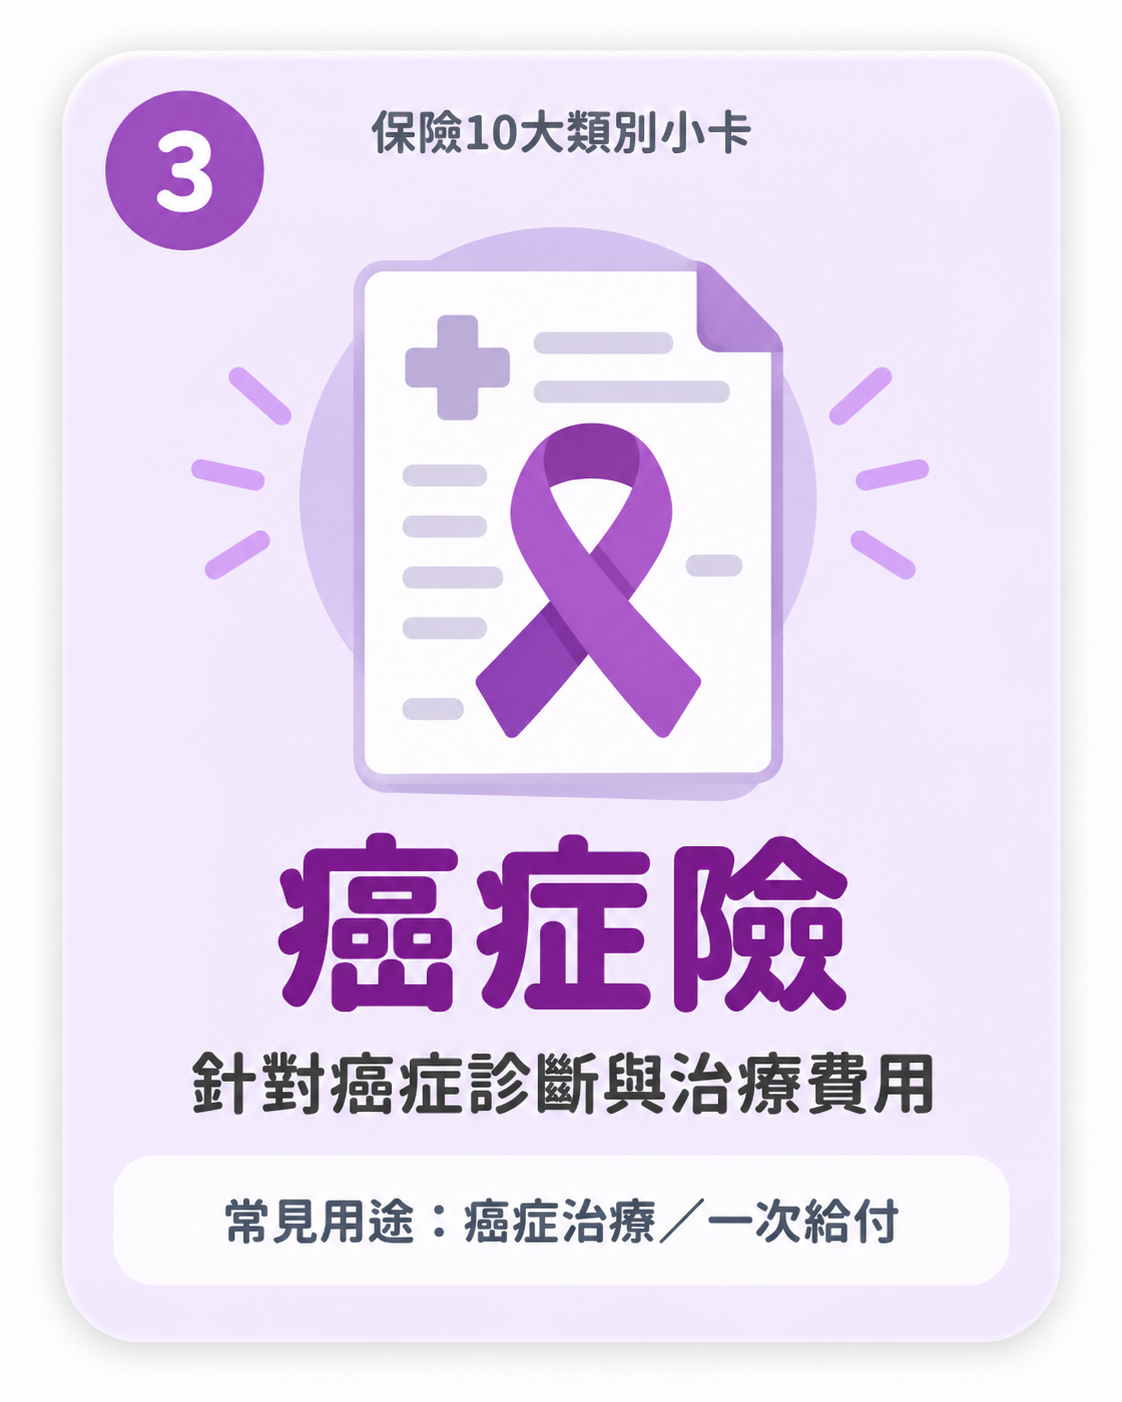
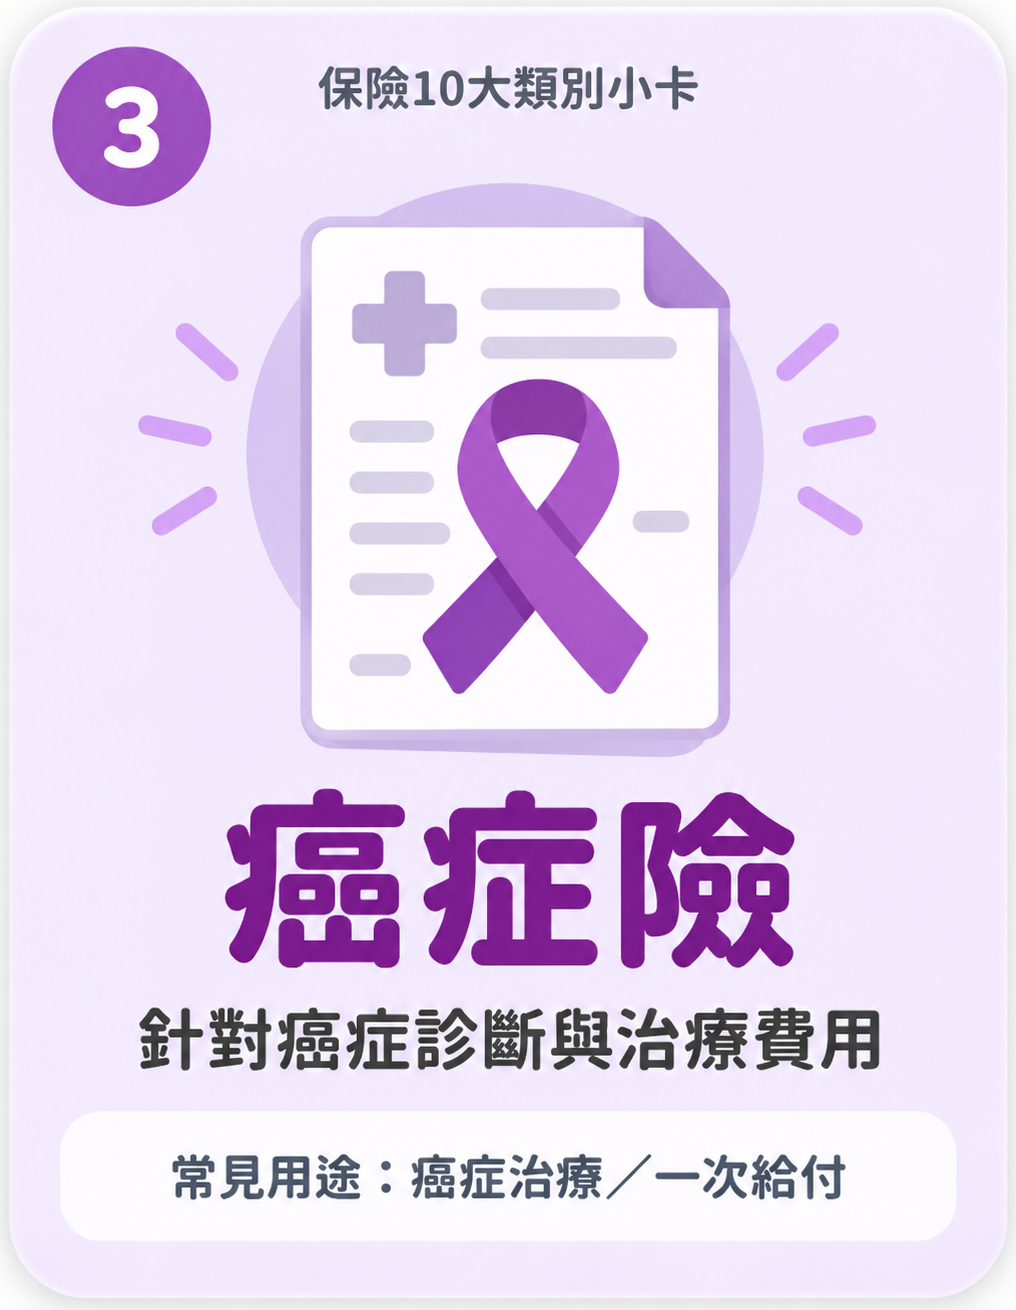
精確裁切移除10張小卡四周白邊與外陰影，卡面100%滿版填滿中間彩色小卡

diff --git a/index.html b/index.html
@@ -5,7 +5,7 @@
     <meta charset="UTF-8">
     <meta name="viewport" content="width=device-width, initial-scale=1.0, maximum-scale=1.0, user-scalable=no">
     <title>Magic Card Selection</title>
-    <link rel="stylesheet" href="style.css?v=1.1">
+    <link rel="stylesheet" href="style.css?v=2.0">
     <link href="https://fonts.googleapis.com/css2?family=Inter:wght@300;600&display=swap" rel="stylesheet">
 </head>
 

diff --git a/style.css b/style.css
@@ -84,10 +84,10 @@ body, html {
 
 /* Base Card Styles */
 .card {
-    width: min(88vw, 65vh);
-    aspect-ratio: 1122 / 1402;
+    width: min(88vw, 68vh);
+    aspect-ratio: 1020 / 1315;
     position: relative;
-    border-radius: min(4vw, 16px);
+    border-radius: min(5vw, 22px);
     overflow: hidden;
     container-type: inline-size;
     transform-style: preserve-3d;
